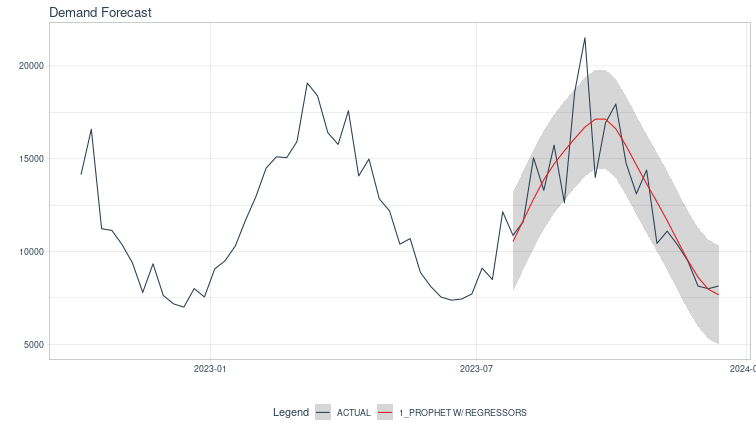
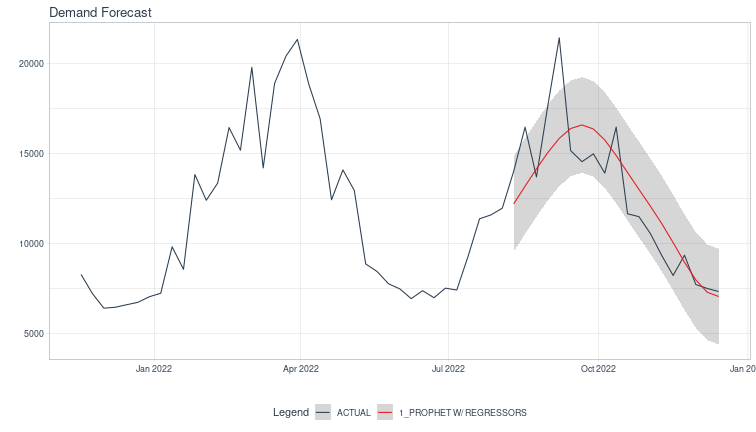
yeehaw

diff --git a/basics-of-conformal-prediction-in-time-series-data.html b/basics-of-conformal-prediction-in-time-series-data.html
@@ -149,7 +149,7 @@
 <h3>Generating simple time series data</h3>
 <p>Let's create a synthetic dataset that mimics real-world electricity demand and temperature patterns, where demand is influenced by temperature in a U-shaped relationship (higher demand at both very low and very high temperatures):</p>
 <div class="highlight"><pre><span></span><code><span class="nf">set.seed</span><span class="p">(</span><span class="m">2024</span><span class="p">)</span>
-<span class="n">n</span><span class="w"> </span><span class="o">&lt;-</span><span class="w"> </span><span class="m">52</span><span class="o">*</span><span class="m">10</span><span class="w">  </span><span class="c1"># 10 years of weekly data</span>
+<span class="n">n</span><span class="w"> </span><span class="o">&lt;-</span><span class="w"> </span><span class="m">52</span><span class="o">*</span><span class="m">9</span><span class="w">  </span><span class="c1"># 9 years of weekly data</span>
 <span class="n">time</span><span class="w"> </span><span class="o">&lt;-</span><span class="w"> </span><span class="m">1</span><span class="o">:</span><span class="n">n</span>
 <span class="n">holdout_prop</span><span class="w"> </span><span class="o">&lt;-</span><span class="w"> </span><span class="m">0.8</span>
 <span class="n">level_conf</span><span class="w"> </span><span class="o">&lt;-</span><span class="w"> </span><span class="m">0.9</span>

diff --git a/output/basics-of-conformal-prediction-in-time-series-data.html b/output/basics-of-conformal-prediction-in-time-series-data.html
@@ -149,7 +149,7 @@
 <h3>Generating simple time series data</h3>
 <p>Let's create a synthetic dataset that mimics real-world electricity demand and temperature patterns, where demand is influenced by temperature in a U-shaped relationship (higher demand at both very low and very high temperatures):</p>
 <div class="highlight"><pre><span></span><code><span class="nf">set.seed</span><span class="p">(</span><span class="m">2024</span><span class="p">)</span>
-<span class="n">n</span><span class="w"> </span><span class="o">&lt;-</span><span class="w"> </span><span class="m">52</span><span class="o">*</span><span class="m">10</span><span class="w">  </span><span class="c1"># 10 years of weekly data</span>
+<span class="n">n</span><span class="w"> </span><span class="o">&lt;-</span><span class="w"> </span><span class="m">52</span><span class="o">*</span><span class="m">9</span><span class="w">  </span><span class="c1"># 9 years of weekly data</span>
 <span class="n">time</span><span class="w"> </span><span class="o">&lt;-</span><span class="w"> </span><span class="m">1</span><span class="o">:</span><span class="n">n</span>
 <span class="n">holdout_prop</span><span class="w"> </span><span class="o">&lt;-</span><span class="w"> </span><span class="m">0.8</span>
 <span class="n">level_conf</span><span class="w"> </span><span class="o">&lt;-</span><span class="w"> </span><span class="m">0.9</span>

diff --git a/content/blogs/data_sci_tech/tsbasics.md b/content/blogs/data_sci_tech/tsbasics.md
@@ -31,7 +31,7 @@ Let's create a synthetic dataset that mimics real-world electricity demand and t
 
 ``` r
 set.seed(2024)
-n <- 52*10  # 10 years of weekly data
+n <- 52*9  # 9 years of weekly data
 time <- 1:n
 holdout_prop <- 0.8
 level_conf <- 0.9
